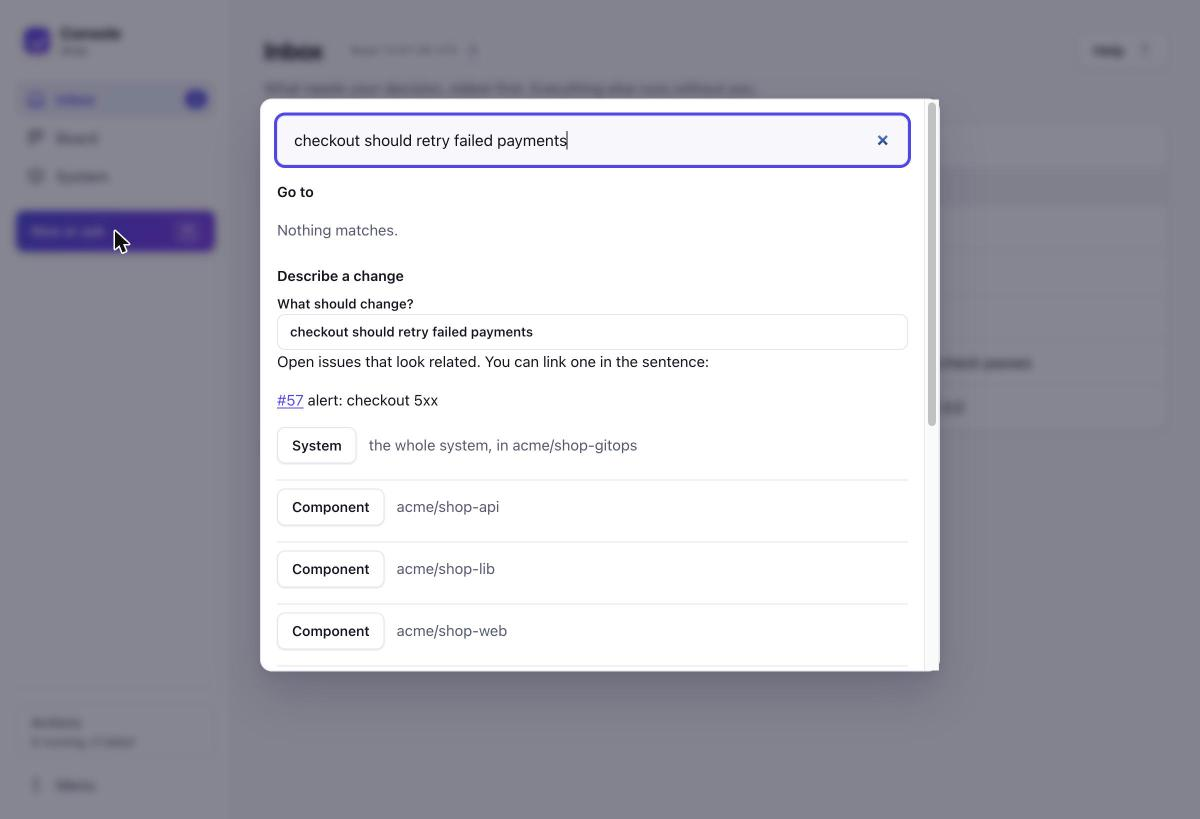
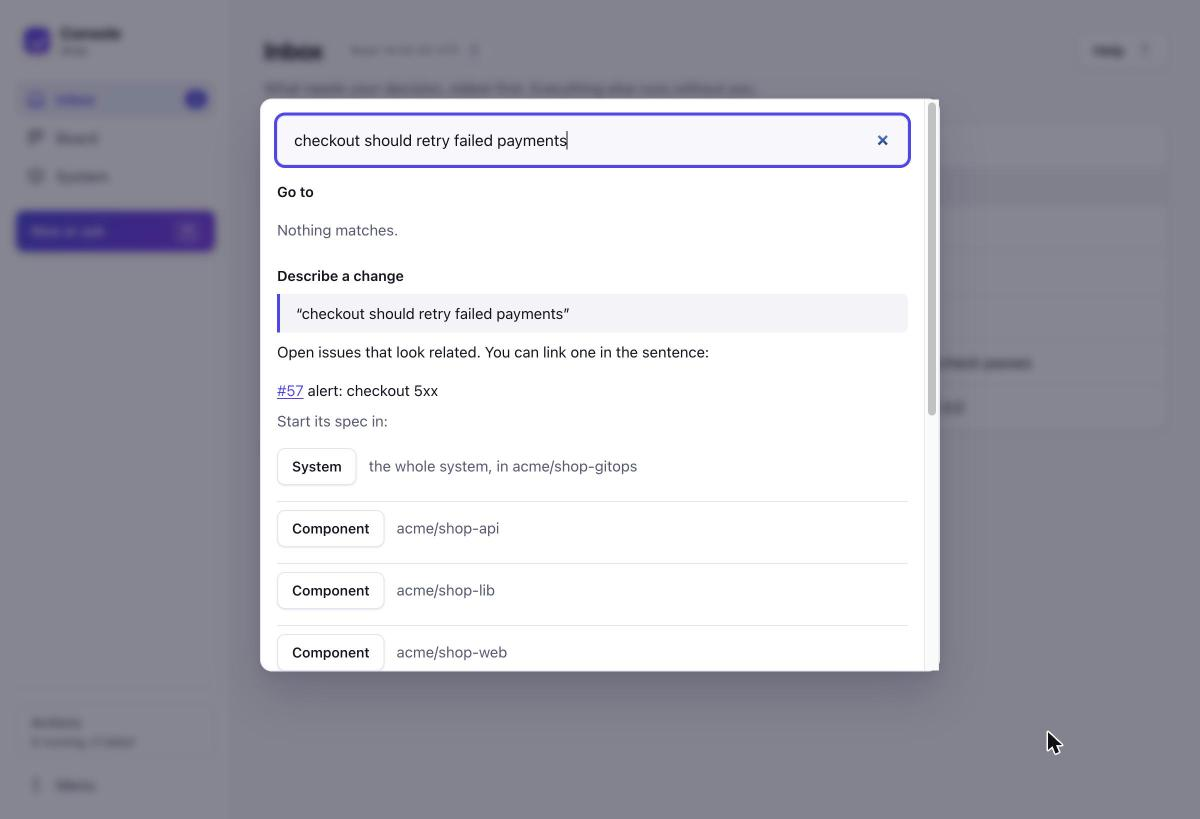
fix(122): ask for the sentence once in the palette
Describe a change and Ask repeated the palette's search text in a field
of their own. The search box is now the only text field: both sections
quote it and send its current text through a hidden input, and with an
empty box their buttons are off and say what to type first.

diff --git a/scripts/cplat/console/static/console.js b/scripts/cplat/console/static/console.js
@@ -232,9 +232,17 @@
 
   /* ---------- actions ---------- */
 
+  // The palette's search box is its only text field: a hidden data-from-palette input takes its text when the form is sent
+  function fromPalette(form) {
+    var box = $("#palette-q");
+    if (!form || !box) { return; }
+    $all("[data-from-palette]", form).forEach(function (n) { n.value = box.value.trim(); });
+  }
+
   function actionBody(button) {
     var args = parseValue(button.getAttribute("data-args")) || {};
     var form = button.closest("form");
+    fromPalette(form);
     if (form && typeof args === "object") {
       new FormData(form).forEach(function (value, name) { args[name] = value; });
     }
@@ -303,6 +311,7 @@
   }
 
   function submitForm(form) {
+    fromPalette(form);
     var fields = {};
     new FormData(form).forEach(function (value, name) { fields[name] = value; });
     var body = form.hasAttribute("data-wrap") ? { form: form.getAttribute("data-form"), fields: fields } : fields;

diff --git a/scripts/cplat/console/static/console.css b/scripts/cplat/console/static/console.css
@@ -693,3 +693,7 @@ p.empty { all: unset; display: block; color: var(--muted); font-size: 0.9rem; ma
 @media (max-width: 600px) {
   .tip-body, .tip.left .tip-body, .tip.right .tip-body { position: fixed; top: auto; bottom: var(--s3); left: var(--s3); right: var(--s3); transform: none; max-width: none; width: auto; }
 }
+
+/* The palette: the search box is the only text field; a section quotes the text it will use */
+.palette-quote { margin: var(--s1) 0 var(--s2); padding: var(--s2) var(--s3); border-left: 3px solid var(--accent); background: var(--surface); border-radius: 0 6px 6px 0; }
+p.muted.palette-quote { border-left-color: var(--line); font-style: italic; }

diff --git a/scripts/cplat/console/palette.py b/scripts/cplat/console/palette.py
@@ -138,8 +138,19 @@ def _matching_issues(ctx: Any, sentence: str) -> str:
     return f'<p>Open issues that look related. You can link one in the sentence:</p><ul class="plain" data-matching-issues>{items}</ul>'
 
 
-def _describe_button(label: str, repo: str, level: str) -> str:
-    return action_button("describe", label, None, None, attrs={
+EMPTY = "Type what should change in the box above first."
+
+
+def _quote(sentence: str, empty: str) -> str:
+    """The text of the palette's search box as this section will use it; the box itself is the only field (it sends the
+    box's current text through the hidden `data-from-palette` input)."""
+    if not sentence:
+        return f'<p class="muted palette-quote">{esc(empty)}</p>'
+    return f'<p class="palette-quote">\u201c{esc(sentence)}\u201d</p>'
+
+
+def _describe_button(label: str, repo: str, level: str, empty: bool = False) -> str:
+    return action_button("describe", label, None, EMPTY if empty else None, attrs={
         "data_object": json.dumps({"repo": repo}), "data_args": json.dumps({"level": level}),
         "data_confirm": f"Start Claude Code in {repo}?"})
 
@@ -147,20 +158,21 @@ def _describe_button(label: str, repo: str, level: str) -> str:
 def _describe(ctx: Any, q: str) -> str:
     gitops = _gitops_repo(ctx)
     sentence = q.strip()
+    empty = not sentence
     buttons = []
     if gitops:
-        buttons.append(f'<li>{_describe_button("System", gitops, "system")} <span class="muted">the whole system, in {esc(gitops)}</span></li>')
+        buttons.append(f'<li>{_describe_button("System", gitops, "system", empty)} <span class="muted">the whole system, in {esc(gitops)}</span></li>')
     repos = sorted({str(c.get("repo")) for c in _components(ctx) if c.get("repo") and not c.get("external")})
     for repo in repos:
-        buttons.append(f'<li>{_describe_button("Component", repo, "component")} <span class="muted">{esc(repo)}</span></li>')
+        buttons.append(f'<li>{_describe_button("Component", repo, "component", empty)} <span class="muted">{esc(repo)}</span></li>')
     if gitops:
-        buttons.append(f'<li>{_describe_button("Let Claude decide", gitops, "decide")} <span class="muted">Claude picks the level</span></li>')
+        buttons.append(f'<li>{_describe_button("Let Claude decide", gitops, "decide", empty)} <span class="muted">Claude picks the level</span></li>')
     if not buttons:
         buttons.append('<li class="muted">The model is not available, so there is no repository to start in.</li>')
     return (f'<section data-palette="describe"><h3>Describe a change</h3>'
-            f'<form data-describe onsubmit="return false"><label>What should change? '
-            f'<input type="text" class="wide" name="text" value="{esc(sentence)}" placeholder="add a wishlist to the shop"></label>'
-            f'{_matching_issues(ctx, sentence)}<ul class="plain">{"".join(buttons)}</ul></form></section>')
+            f'<form data-describe onsubmit="return false">{_quote(sentence, "Describe a change in the box above, for example: add a wishlist to the shop.")}'
+            f'<input type="hidden" name="text" value="{esc(sentence)}" data-from-palette>'
+            f'{_matching_issues(ctx, sentence)}<p class="muted">Start its spec in:</p><ul class="plain">{"".join(buttons)}</ul></form></section>')
 
 
 # ---------------- add to the model ----------------
@@ -179,8 +191,9 @@ def _add(ctx: Any) -> str:
 
 def _ask_form(q: str) -> str:
     return (f'<section data-palette="ask"><h3>Ask</h3><form data-form="ask" data-post="/api/ask" onsubmit="return false">'
-            f'<label>Question <input type="text" name="question" value="{esc(q.strip())}" placeholder="why is shop-api slow?"></label> '
-            f'<button type="submit" class="btn">Ask</button> '
+            f'{_quote(q.strip(), "Ask a question in the box above, for example: why is shop-api slow?")}'
+            f'<input type="hidden" name="question" value="{esc(q.strip())}" data-from-palette>'
+            f'<button type="submit" class="btn"{" disabled" if not q.strip() else ""}>Ask</button> '
             f'<span class="muted">Claude only reads; it proposes commands and you confirm them.</span>'
             f'<pre data-result></pre></form></section>')
 

diff --git a/tests/cplat/test_console_polish.py b/tests/cplat/test_console_polish.py
@@ -64,7 +64,7 @@ import re
 from pathlib import Path
 
 from console import glossary
-from console_support import q
+from console_support import parse, q
 
 CONSOLE = Path(__file__).resolve().parents[2] / "scripts" / "cplat" / "console"
 
@@ -201,3 +201,32 @@ def test_the_palette_keeps_the_forms_as_disclosures(tmp_path):
 def test_a_budget_line_keeps_usd_in_capitals():
     info = board._run_info({"budget": {"used": {"cost": 3.1, "minutes": 42}, "limit": {"cost": 15, "minutes": 180}}})
     assert info["budget"] == "Cost 3.1 of 15 USD, 42 min of 180 min"
+
+
+# ---------------- the palette: its search box is the only text field ----------------
+
+def test_the_palette_asks_for_the_sentence_once(console):
+    _, text = console().get("/palette?q=add%20a%20wishlist")
+    root = parse(text)
+    for section in ("describe", "ask"):
+        [sec] = q(root, "section", data_palette=section)
+        assert not [i for i in q(sec, "input") if i.attrs.get("type") in (None, "text")], section
+        [hidden] = q(sec, "input", data_from_palette=True)
+        assert hidden.attrs["type"] == "hidden" and hidden.attrs["value"] == "add a wishlist"
+        assert "“add a wishlist”" in sec.text()
+
+
+def test_with_an_empty_box_describe_and_ask_say_what_to_do(console):
+    _, text = console().get("/palette?q=")
+    root = parse(text)
+    [sec] = q(root, "section", data_palette="describe")
+    buttons = q(sec, "button", data_action="describe")
+    assert buttons and all("disabled" in b.attrs for b in buttons)
+    assert "Type what should change in the box above first." in sec.text()
+    [ask] = q(root, "section", data_palette="ask")
+    assert "disabled" in q(ask, "button")[0].attrs
+
+
+def test_the_script_sends_the_search_boxs_current_text():
+    js = (CONSOLE / "static" / "console.js").read_text()
+    assert "data-from-palette" in js and "fromPalette(form)" in js

diff --git a/docs/changelog.d/122-console-polish.changed.md b/docs/changelog.d/122-console-polish.changed.md
@@ -4,4 +4,4 @@ raised cards, coloured pills for states and decisions, icons in the sidebar, a s
 read the decisions; a source that cannot be read is named in words ("The list of open decisions is not available") with a pointer to
 `/platform:doctor`; Board cards show the spec title instead of only its slug and are coloured by state (stopped, running, waits for
 you) rather than by column; the Board no longer scrolls sideways: a strip shows all eight stages with their counts, and each stage is a row whose cards wrap (an empty stage is one slim line; the Columns view is now called Stages);
-costs are rounded to cents; System shows the system as one tree (Components, Libraries, Resources, APIs; a row opens for its repo and relations) and every change starts from its item (+ Add on a group, Remove and Change APIs on a row, Change rules on an environment), with its form opening at the right, filled in and with selection lists for what already exists; the separate Add to the model section is gone (the palette keeps the forms). A background refresh no longer throws away a form that is being filled in. Help: a **?** next to every term (decision kinds, card colours, instance states, promote rule, policy, autonomy level, guardrails, freshness) explains it in place, and **How it works** (`/help`, in the menu) shows the eight stages and every term by topic from the same texts; the Board and System pages have a legend, and the sidebar names the system it shows.
+costs are rounded to cents; System shows the system as one tree (Components, Libraries, Resources, APIs; a row opens for its repo and relations) and every change starts from its item (+ Add on a group, Remove and Change APIs on a row, Change rules on an environment), with its form opening at the right, filled in and with selection lists for what already exists; the separate Add to the model section is gone (the palette keeps the forms). A background refresh no longer throws away a form that is being filled in. Help: a **?** next to every term (decision kinds, card colours, instance states, promote rule, policy, autonomy level, guardrails, freshness) explains it in place, and **How it works** (`/help`, in the menu) shows the eight stages and every term by topic from the same texts; the Board and System pages have a legend, and the sidebar names the system it shows. The palette asks for the sentence once: its search box is the only text field, Describe a change and Ask quote it, and with an empty box their buttons say what to type first.
